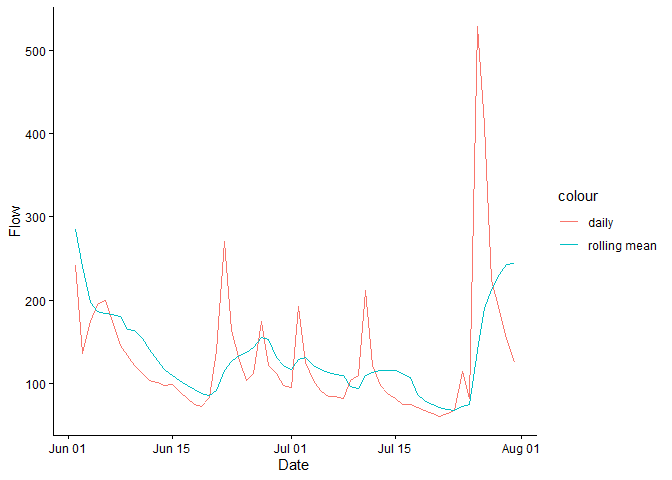
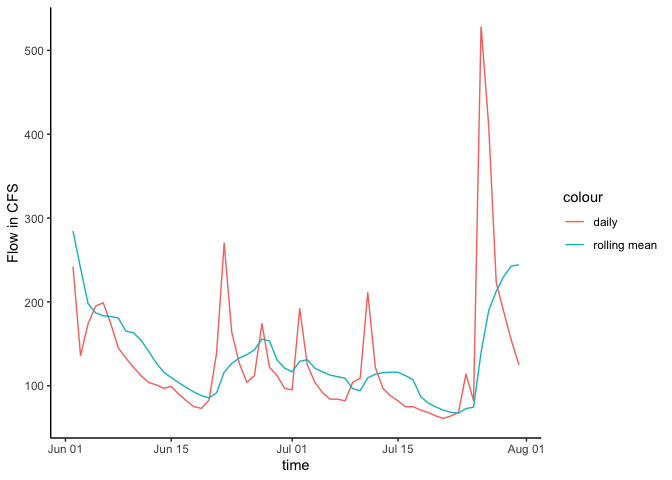
update to new dataRetrieval

diff --git a/10-LowFLowStats-FDC.md b/10-LowFLowStats-FDC.md
@@ -1,6 +1,6 @@
 # Chapter 10: Low Flow Stats
 JP Gannon
-2026-02-12
+2026-02-13
 
 # Low Flow Analysis
 
@@ -14,6 +14,9 @@ JP Gannon
 
 <https://nepis.epa.gov/Exe/ZyPDF.cgi?Dockey=P100BK6P.txt>
 
+The github repository for these notes can be found here:
+<https://github.com/VT-Hydroinformatics/10-Low-Flow-Analysis>
+
 *Load packages for analysis. zoo will allow us to easily perform rolling
 means, and moments will allow easy calculation of skewness.*
 
@@ -21,7 +24,6 @@ means, and moments will allow easy calculation of skewness.*
 library(zoo)
 library(tidyverse)
 library(dataRetrieval)
-library(lubridate)
 library(moments)
 
 theme_set(theme_classic())
@@ -74,23 +76,29 @@ below in a given year.
 ## Get data
 
 Let’s get started on an example. We will calculate the 7Q10 low flow
-statistic for the Linville NC usgs gage (02138500) using daily discharge
-data from 1922-1984. (parameter = 00060)
+statistic for the Linville NC usgs gage (USGS-02138500) using daily
+discharge data from 1922-1984. (parameter = 00060)
 
 ``` r
-siteno <- "02138500"
+siteno <- "USGS-02138500"
 startDate <- "1922-01-01"
 endDate <- "1984-01-01"
 parameter <- "00060"
 
-Qdat <- readNWISdv(siteno, parameter, startDate, endDate) |> 
-  renameNWISColumns()
+times <- c(startDate, endDate)
+
+Qdat <- read_waterdata_daily(
+  monitoring_location_id = siteno, 
+  parameter_code = parameter,
+  time = times, 
+  skipGeometry = TRUE
+)
 ```
 
-    Warning: NWIS servers are slated for decommission. Please begin to migrate to
-    read_waterdata_daily.
+    Requesting:
+    https://api.waterdata.usgs.gov/ogcapi/v0/collections/daily/items?f=json&lang=en-US&skipGeometry=TRUE&monitoring_location_id=USGS-02138500&parameter_code=00060&time=1922-01-01%2F1984-01-01&limit=50000
 
-    GET: https://waterservices.usgs.gov/nwis/dv/?site=02138500&format=waterml%2C1.1&ParameterCd=00060&StatCd=00003&startDT=1922-01-01&endDT=1984-01-01
+    ⠙ Iterating 1 done (0.43/s) | 2.3s
 
 ## Create the X days average flow record
 
@@ -139,7 +147,7 @@ YrecInt <- 10
 
 #X day rolling mean, don't fill the ends of the timeseries,
 #don't ignore NAs, use a backward-looking window (right align)
-Qdat <- Qdat |> mutate(xdaymean = rollmean(Flow, 
+Qdat <- Qdat |> mutate(xdaymean = rollmean(value, 
                                             Xday, 
                                             fill = NA, 
                                             na.rm = F, 
@@ -156,10 +164,11 @@ in the full record.
 
 ``` r
 Qdat |> 
-  filter(Date > mdy("06-01-1960") & Date < mdy("08-01-1960")) |>
-  ggplot(aes(Date, Flow, color = "daily"))+
+  filter(time > mdy("06-01-1960") & time < mdy("08-01-1960")) |>
+  ggplot(aes(time, value, color = "daily"))+
     geom_line()+
-    geom_line(aes(x = Date, y = xdaymean, color = "rolling mean"))
+    geom_line(aes(x = time, y = xdaymean, color = "rolling mean"))+
+    ylab("Flow in CFS")
 ```
 
 ![](10-LowFLowStats-FDC_files/figure-commonmark/unnamed-chunk-4-1.png)
@@ -179,10 +188,10 @@ or more days.
 
 ``` r
 #missing less than 10% of each year and 10% or fewer NAs
-QyearlyMins <- Qdat |> mutate(year = year(Date)) |>
+QyearlyMins <- Qdat |> mutate(year = year(time)) |>
                         group_by(year) |>
                         summarize(minQ = min(xdaymean, na.rm = T), 
-                                  lenDat = length(Flow),
+                                  lenDat = length(value),
                                   lenNAs = sum(is.na(xdaymean))) |>
                         filter(lenDat > 328 & lenNAs / lenDat < 0.1) 
 ```
